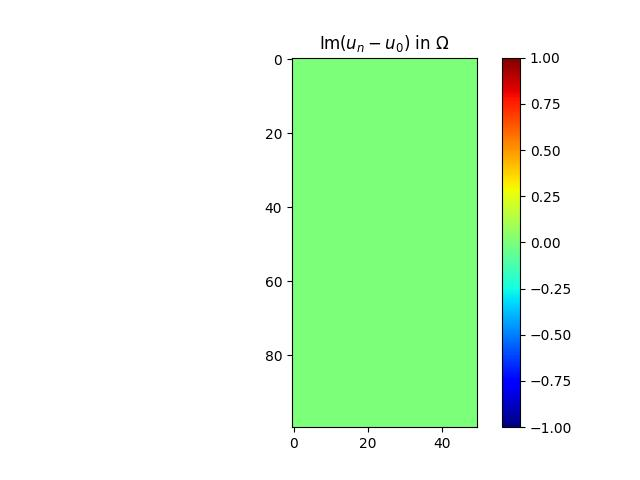
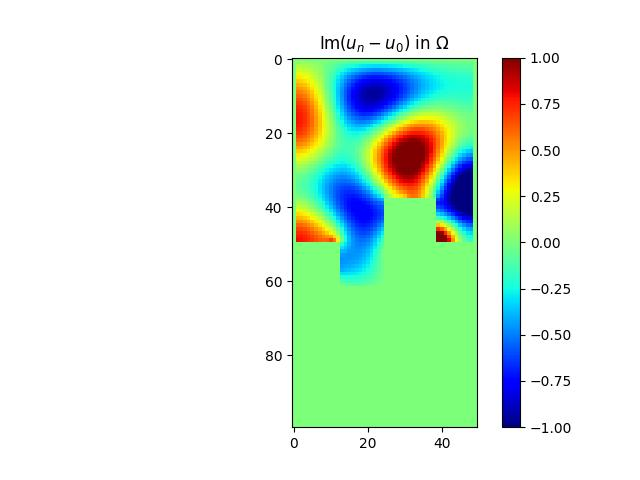
Complète la descente projetée et le calcul du critère

Changed region(s): [[0.4375, 0.125, 0.75, 0.5938]]

diff --git a/support/demo_control_polycopie2024.py b/support/demo_control_polycopie2024.py
@@ -5,6 +5,7 @@
 import matplotlib.pyplot
 import numpy
 import os
+import scipy.sparse.linalg
 
 
 # MRG packages
@@ -18,61 +19,173 @@ import postprocessing
 def your_optimization_procedure(domain_omega, spacestep, omega, f, f_dir, f_neu, f_rob,
                            beta_pde, alpha_pde, alpha_dir, beta_neu, beta_rob, alpha_rob,
                            Alpha, mu, chi, V_obj):
-    """This function return the optimized density.
+    """On réduit l'énergie en répartissant une quantité fixée de matériau.
 
-    Parameter:
-        cf solvehelmholtz's remarks
-        Alpha: complex, it corresponds to the absorbtion coefficient;
-        mu: float, it is the initial step of the gradient's descent;
-        V_obj: float, it characterizes the volume constraint on the density chi.
+    On reçoit la géométrie, les données du problème, le coefficient du matériau,
+    un pas initial et la répartition de départ. On renvoie la répartition finale,
+    les énergies acceptées, le champ final et sa dérivée par rapport au matériau.
+    La quantité imposée est une fraction des points du mur dans cette géométrie.
+    Le paramètre omega reçoit le nombre d'onde utilisé par le solveur.
     """
+    interior = domain_omega == _env.NODE_INTERIOR
+    robin = domain_omega == _env.NODE_ROBIN
+    if not numpy.any(robin):
+        raise ValueError("Le domaine doit contenir une frontière Robin.")
+    if not numpy.isfinite(spacestep) or spacestep <= 0:
+        raise ValueError("Le pas spatial doit être positif et fini.")
+    if not numpy.isfinite(mu) or mu <= 0:
+        raise ValueError("Le pas de descente doit être positif et fini.")
+    if not numpy.isfinite(V_obj) or not 0 <= V_obj <= 1:
+        raise ValueError("La fraction de matériau doit être entre zéro et un.")
+    if numpy.shape(chi) != numpy.shape(domain_omega) or not numpy.isrealobj(chi):
+        raise ValueError("La répartition doit être un tableau réel de la taille du domaine.")
+    if not numpy.all(numpy.isfinite(chi)) or not numpy.isfinite(Alpha):
+        raise ValueError("La répartition et le coefficient doivent être finis.")
+    if numpy.any(beta_pde[interior] == 0):
+        raise ValueError("Le coefficient de diffusion doit être non nul dans le domaine.")
 
-    k = 0
-    (M, N) = numpy.shape(domain_omega)
-    numb_iter = 100
-    energy = numpy.zeros((numb_iter+1, 1), dtype=numpy.float64)
-    while k < numb_iter and mu > 10**(-5):
-        print('---- iteration number = ', k)
-        print('1. computing solution of Helmholtz problem, i.e., u')
-        print('2. computing solution of adjoint problem, i.e., p')
-        print('3. computing objective function, i.e., energy')
-        print('4. computing parametric gradient')
-        while ene >= energy[k] and mu > 10 ** -5:
-            print('    a. computing gradient descent')
-            print('    b. computing projected gradient')
-            print('    c. computing solution of Helmholtz problem, i.e., u')
-            print('    d. computing objective function, i.e., energy (E)')
-            ene = compute_objective_function(domain_omega, u, spacestep)
-            if bool_a:
-                # The step is increased if the energy decreased
-                mu = mu * 1.1
+    target = float(V_obj * numpy.count_nonzero(robin))
+    nrows, ncols = domain_omega.shape
+
+    def project_density(proposal):
+        """On borne la répartition et on retrouve la quantité de matériau imposée."""
+        values = proposal[robin]
+        projected = numpy.zeros(domain_omega.shape, dtype=numpy.float64)
+        if target == 0:
+            return projected
+        if target == values.size:
+            projected[robin] = 1.0
+            return projected
+
+        # On cherche par dichotomie le décalage commun aux valeurs du mur.
+        lower = float(values.min() - 1.0)
+        upper = float(values.max())
+        for _ in range(60):
+            shift = (lower + upper) / 2.0
+            bounded = numpy.clip(values - shift, 0.0, 1.0)
+            if bounded.sum() > target:
+                lower = shift
             else:
-                # The step is decreased is the energy increased
-                mu = mu / 2
-        k += 1
+                upper = shift
+        projected[robin] = numpy.clip(values - (lower + upper) / 2.0, 0.0, 1.0)
+        return projected
 
-    print('end. computing solution of Helmholtz problem, i.e., u')
+    def compute_state(density):
+        """On assemble le système fourni et on calcule le champ et son énergie."""
+        # On prépare le coefficient du mur sans modifier les données reçues.
+        boundary_coefficient = numpy.zeros_like(alpha_rob, dtype=numpy.complex128)
+        boundary_coefficient[robin] = Alpha * density[robin]
 
+        # On reprend les mêmes contributions que dans le solveur fourni.
+        matrix, rhs = processing.compute_stiffness_matrix(
+            domain_omega, spacestep, f, beta_pde
+        )
+        mass, _ = processing.compute_mass_matrix(domain_omega, spacestep, alpha_pde)
+        matrix = matrix + omega**2 * mass
+        matrix, rhs = processing.compute_dirichlet_condition(
+            domain_omega, f_dir, alpha_dir, beta_pde, matrix, rhs
+        )
+        matrix, rhs = processing.compute_neumann_condition(
+            domain_omega, spacestep, f_neu, beta_neu, beta_pde, matrix, rhs
+        )
+        matrix, rhs = processing.compute_robin_condition(
+            domain_omega, spacestep, f_rob, boundary_coefficient,
+            beta_rob, beta_pde, matrix, rhs
+        )
+        matrix = matrix.tocsr()
+        state = scipy.sparse.linalg.spsolve(matrix, rhs.ravel())
+        field = numpy.zeros(domain_omega.shape, dtype=numpy.complex128)
+        field[interior] = state.reshape(domain_omega.shape)[interior]
+        if not numpy.all(numpy.isfinite(state)):
+            return matrix, state, field, numpy.inf
+        value = your_compute_objective_function(domain_omega, field, spacestep)
+        return matrix, state, field, value
+
+    def compute_gradient(matrix, state, density):
+        """On utilise le champ adjoint pour calculer l'effet de chaque point du mur."""
+        # On calcule le second membre adjoint à partir du champ dans le fluide.
+        adjoint_rhs = numpy.zeros_like(state)
+        adjoint_rhs[interior.ravel()] = 2.0 * spacestep**2 * state[interior.ravel()]
+        adjoint = scipy.sparse.linalg.spsolve(matrix.conjugate().transpose(), adjoint_rhs)
+        if not numpy.all(numpy.isfinite(adjoint)):
+            raise ValueError("Le calcul adjoint n'a pas donné de champ fini.")
+
+        # On additionne les contributions des voisins intérieurs de chaque point Robin.
+        gradient = numpy.zeros(domain_omega.shape, dtype=numpy.float64)
+        for i, j in zip(*numpy.nonzero(interior)):
+            row = i * ncols + j
+            for bi, bj in ((i - 1, j), (i + 1, j), (i, j - 1), (i, j + 1)):
+                if robin[bi, bj]:
+                    scale = spacestep * Alpha / beta_pde[i, j]
+                    denominator = beta_rob[bi, bj] - scale * density[bi, bj]
+                    diagonal_derivative = scale * beta_rob[bi, bj] / denominator**2
+                    rhs_derivative = spacestep * f_rob[bi, bj] * scale / denominator**2
+                    gradient[bi, bj] += numpy.real(
+                        numpy.conjugate(adjoint[row])
+                        * (rhs_derivative - diagonal_derivative * state[row])
+                    )
+        if not numpy.all(numpy.isfinite(gradient)):
+            raise ValueError("Le calcul de la dérivée n'a pas donné de valeurs finies.")
+        return gradient
+
+    # On démarre avec une copie admissible et son énergie réellement calculée.
+    chi = project_density(numpy.array(chi, dtype=numpy.float64, copy=True))
+    matrix, state, u, value = compute_state(chi)
+    if not numpy.isfinite(value):
+        raise ValueError("Le calcul initial n'a pas donné de champ fini.")
+    grad = compute_gradient(matrix, state, chi)
+    history = [value]
+    stop_reason = "nombre maximal d'itérations atteint"
+
+    # On cherche une amélioration en conservant les bornes et la quantité de matériau.
+    for iteration in range(100):
+        projected = project_density(chi - grad)
+        if numpy.max(numpy.abs(projected - chi)) <= 1e-7:
+            stop_reason = "variation projetée suffisamment petite"
+            break
+
+        step = mu
+        accepted = False
+        while step >= 1e-5:
+            candidate = project_density(chi - step * grad)
+            direction = candidate - chi
+            candidate_matrix, candidate_state, candidate_u, candidate_value = compute_state(candidate)
+
+            # On accepte seulement une diminution cohérente avec la direction calculée.
+            sufficient_decrease = value + 1e-4 * numpy.sum(grad * direction)
+            if numpy.isfinite(candidate_value) and candidate_value <= sufficient_decrease:
+                accepted = True
+                break
+            step /= 2.0
+
+        if not accepted:
+            stop_reason = "pas de descente devenu trop petit"
+            break
+
+        # On conserve uniquement les étapes acceptées puis on actualise la dérivée.
+        chi = candidate
+        matrix, state, u, value = candidate_matrix, candidate_state, candidate_u, candidate_value
+        history.append(value)
+        grad = compute_gradient(matrix, state, chi)
+        mu = 1.1 * step
+        print("Itération", iteration + 1, ": énergie =", value)
+
+    print("Arrêt de la descente :", stop_reason)
+    energy = numpy.asarray(history, dtype=numpy.float64).reshape(-1, 1)
     return chi, energy, u, grad
 
 
 def your_compute_objective_function(domain_omega, u, spacestep):
-    """
-    This function compute the objective function:
-    J(u,domain_omega)= \int_{domain_omega}||u||^2 
-
-    Parameter:
-        domain_omega: Matrix (NxP), it defines the domain and the shape of the
-        Robin frontier;
-        u: Matrix (NxP), it is the solution of the Helmholtz problem, we are
-        computing its energy;
-        spacestep: float, it corresponds to the step used to solve the Helmholtz
-        equation.
-    """
-
-    energy = 0.0
-
-    return energy
+    """On calcule le critère à partir du module de pression sur les points intérieurs."""
+    if numpy.shape(u) != numpy.shape(domain_omega):
+        raise ValueError("Le champ et le domaine doivent avoir la même taille.")
+    if not numpy.isfinite(spacestep) or spacestep <= 0:
+        raise ValueError("Le pas spatial doit être positif et fini.")
+    interior_values = numpy.asarray(u)[domain_omega == _env.NODE_INTERIOR]
+    if not numpy.all(numpy.isfinite(interior_values)):
+        raise ValueError("Le champ doit être fini sur les points intérieurs.")
+    # On multiplie la somme des amplitudes au carré par l'aire représentée par un point.
+    return float(spacestep**2 * numpy.sum(numpy.abs(interior_values)**2))
 
 
 if __name__ == '__main__':
@@ -152,13 +265,12 @@ if __name__ == '__main__':
     # ----------------------------------------------------------------------
     # -- Fell free to modify the function call in this cell.
     # ----------------------------------------------------------------------
-    # -- compute optimization
-    energy = numpy.zeros((100+1, 1), dtype=numpy.float64)
-    # chi, energy, u, grad = your_optimization_procedure(...)
-    #chi, energy, u, grad = solutions.optimization_procedure(domain_omega, spacestep, wavenumber, f, f_dir, f_neu, f_rob,
-    #                    beta_pde, alpha_pde, alpha_dir, beta_neu, beta_rob, alpha_rob,
-    #                    Alpha, mu, chi, V_obj, mu1, V_0)
-    # --- en of optimization
+    # On améliore la répartition avec le coefficient provisoire du matériau.
+    chi, energy, u, grad = your_optimization_procedure(
+        domain_omega, spacestep, wavenumber, f, f_dir, f_neu, f_rob,
+        beta_pde, alpha_pde, alpha_dir, beta_neu, beta_rob, alpha_rob,
+        Alpha, mu, chi, V_obj,
+    )
 
     chin = chi.copy()
     un = u.copy()
@@ -181,12 +293,13 @@ if __name__ == '__main__':
     postprocessing._plot_error(err)
     postprocessing._plot_energy_history(energy)
 
+    # On conserve la répartition initiale pour la courbe fréquentielle de référence.
     # On limite les fréquences pour garder dix points par longueur d’onde.
     frequencies_hz = numpy.arange(100.0, 1501.0, 50.0)
     results = processing.run_rer_b_frequency_sweep(
         domain_omega, spacestep, frequencies_hz,
         f, f_dir, f_neu, f_rob,
-        beta_pde, alpha_pde, alpha_dir, beta_neu, beta_rob, alpha_rob,
+        beta_pde, alpha_pde, alpha_dir, beta_neu, beta_rob, Alpha * chi0,
     )
     # On enregistre les deux courbes dans le dossier de ce programme.
     postprocessing.plot_rer_b_frequency_sweep(results)

diff --git a/support/postprocessing.py b/support/postprocessing.py
@@ -112,16 +112,16 @@ def _plot_error(err):
     return
 
 def _plot_energy_history(energy):
-
-    matplotlib.pyplot.plot(energy) #, cmap = 'jet')#, vmin = 1e-4, vmax = 1e-0)
-    matplotlib.pyplot.title('Energy')
-    #matplotlib.pyplot.colorbar()
-    #matplotlib.pyplot.show()
-    filename = 'fig_energy_real.jpg'
+    """On trace les valeurs du critère aux étapes acceptées de la descente."""
+    matplotlib.pyplot.plot(numpy.asarray(energy).ravel())
+    matplotlib.pyplot.title("Évolution du critère pendant la descente")
+    matplotlib.pyplot.xlabel("Étape acceptée")
+    matplotlib.pyplot.ylabel("Critère d'énergie")
+    filename = os.path.join(os.path.dirname(os.path.abspath(__file__)), 'fig_energy_real.jpg')
     matplotlib.pyplot.savefig(filename)
     matplotlib.pyplot.close()
-
     return
+
 
 def plot_rer_b_frequency_sweep(results, output_dir=None):
     """Enregistre le spectre du RER B et son énergie en fonction de la fréquence."""
